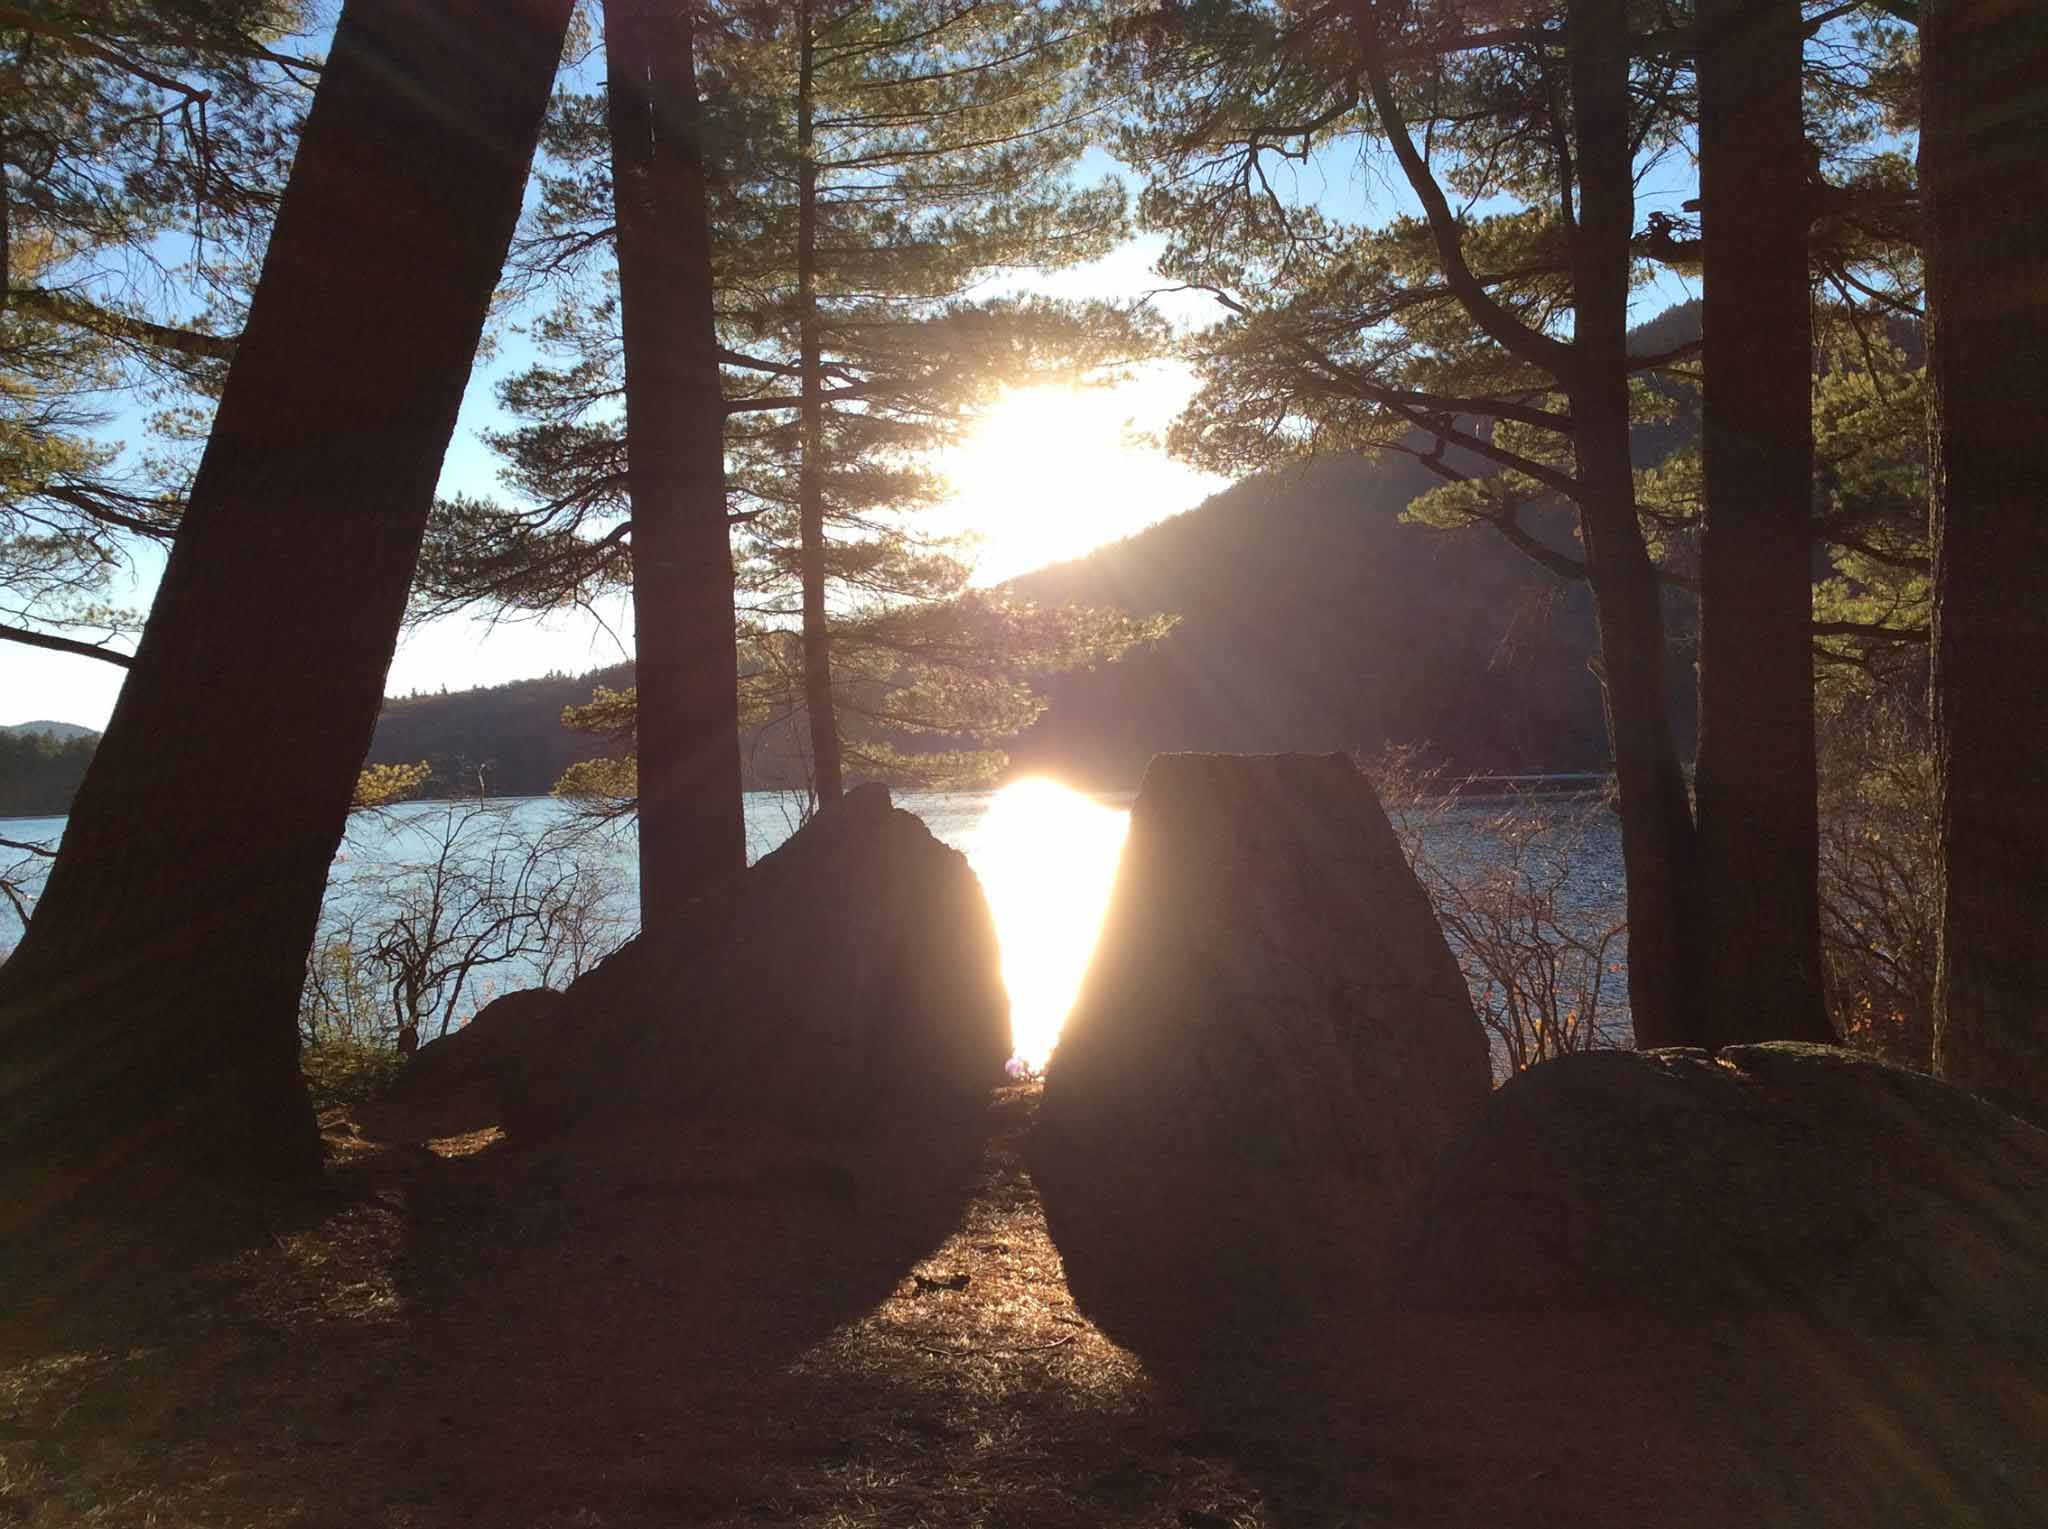
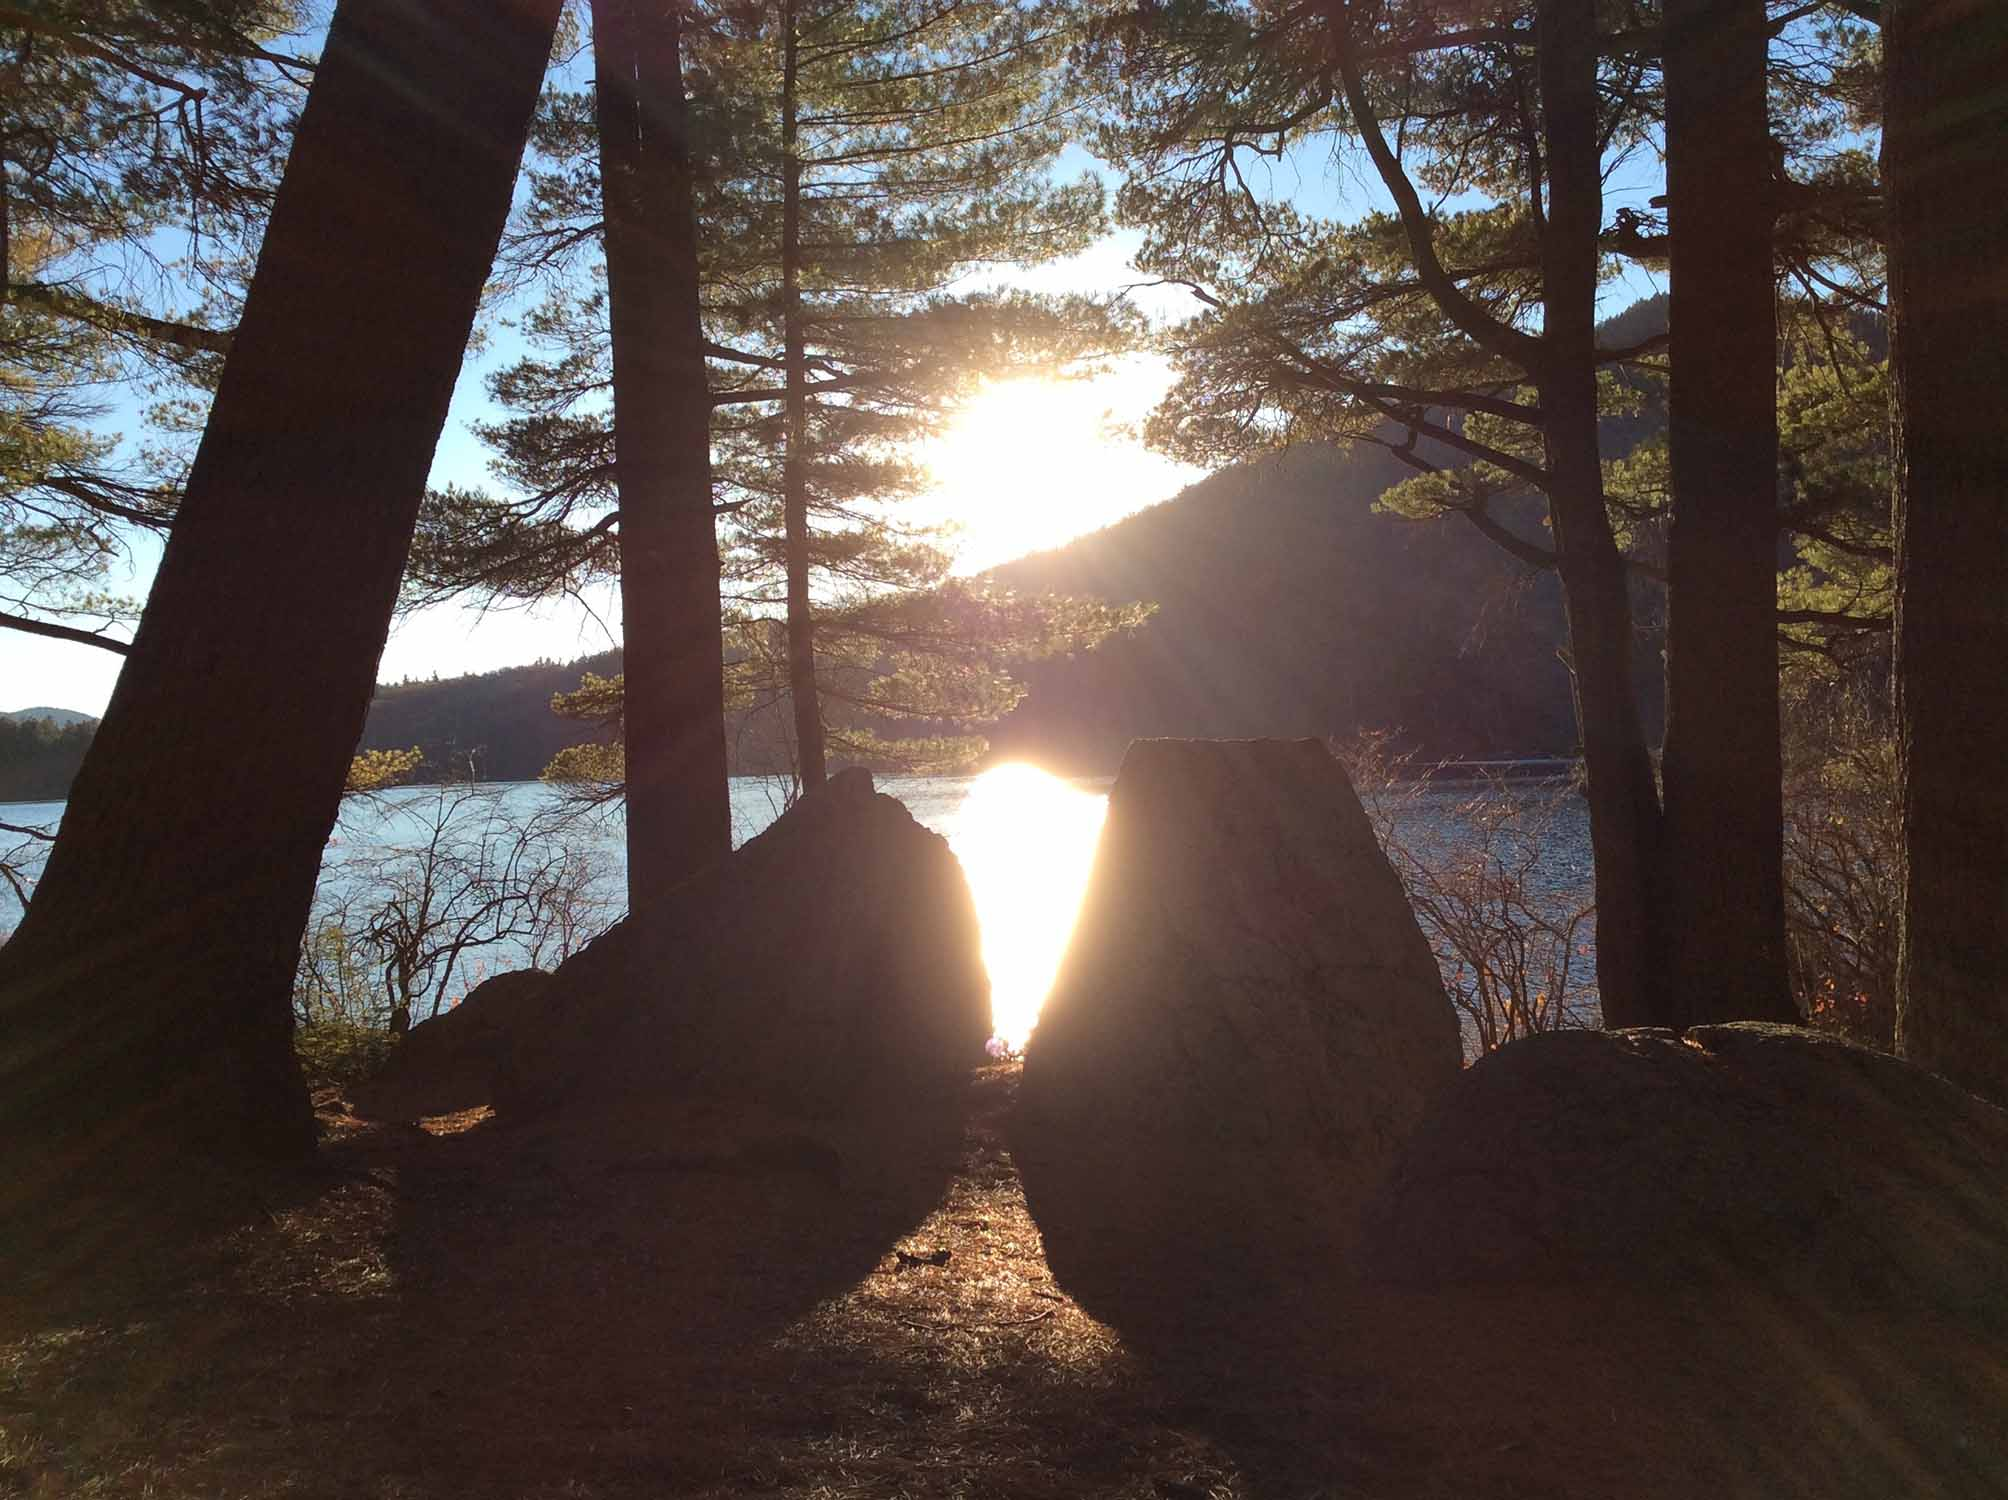
update copy, copy place/style, and background image

diff --git a/scss/_layout.scss b/scss/_layout.scss
@@ -2,12 +2,14 @@
 html,
 body {
   background-color: #000;
+  color: #fff;
+  font-family: 'Neuton';
 }
 
 a,
 a:active,
 a:visited {
-  color: #000;
+  color: #fff;
 }
 
 .hidden {
@@ -36,10 +38,25 @@ canvas {
 }
 
 article {
+  bottom: 0;
+  left: 0;
+  position: absolute;
+  width: 100%;
+
   .article__copy {
-    color: #000;
-    margin-top: -2em;
     padding: 1em;
     text-align: center;
+  }
+
+  h1,
+  ul,
+  li {
+    display: inline-block;
+    font-size: 1em;
+  }
+
+  h1,
+  li {
+    margin: 0 0.25em 0 0;
   }
 }
